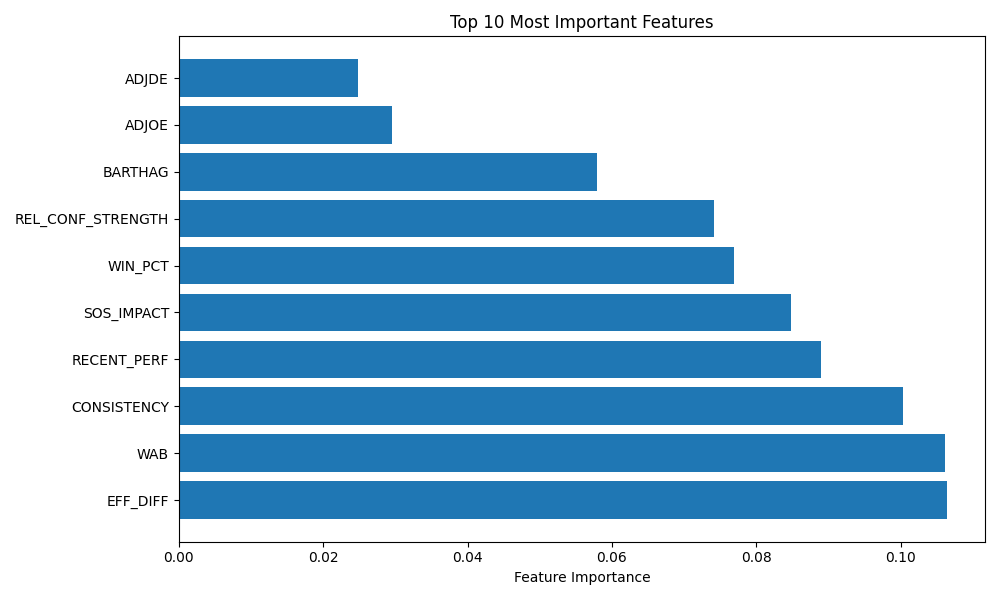
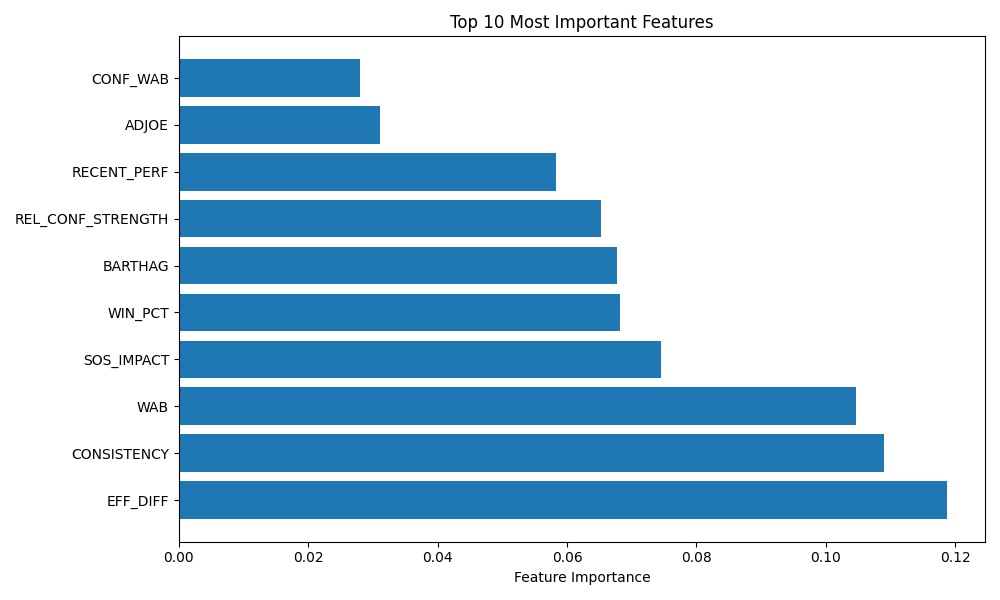
improvements

diff --git a/model.py b/model.py
@@ -1,6 +1,6 @@
 import pandas as pd
 import numpy as np
-from sklearn.model_selection import train_test_split, cross_val_score, KFold
+from sklearn.model_selection import train_test_split, cross_val_score, KFold, GridSearchCV
 from sklearn.ensemble import RandomForestClassifier
 from sklearn.metrics import accuracy_score, log_loss, confusion_matrix, classification_report
 from sklearn.impute import SimpleImputer
@@ -170,6 +170,35 @@ def plot_feature_importance(model, features):
     
     return importance
 
+def tune_hyperparameters(X_train, y_train):
+    """Tune hyperparameters using GridSearchCV."""
+    param_grid = {
+        'n_estimators': [50, 100, 200],
+        'max_depth': [5, 10, 15, None],
+        'min_samples_split': [2, 5, 10],
+        'min_samples_leaf': [1, 2, 4],
+        'max_features': ['sqrt', 'log2']
+    }
+    
+    rf = RandomForestClassifier(random_state=42, class_weight='balanced')
+    grid_search = GridSearchCV(
+        estimator=rf,
+        param_grid=param_grid,
+        cv=5,
+        n_jobs=-1,
+        scoring='accuracy',
+        verbose=1
+    )
+    
+    print("\nPerforming hyperparameter tuning...")
+    grid_search.fit(X_train, y_train)
+    
+    print("\nBest parameters found:")
+    for param, value in grid_search.best_params_.items():
+        print(f"{param}: {value}")
+    
+    return grid_search.best_estimator_
+
 def main():
     # Load and prepare data
     print("Loading and preparing data...")
@@ -184,17 +213,20 @@ def main():
     print("\nPerforming cross-validation...")
     cross_validate_model(X_train, y_train)
     
-    # Train the model
-    print("\nTraining baseline model...")
-    model = train_baseline_model(X_train, y_train)
+    # Tune hyperparameters
+    best_model = tune_hyperparameters(X_train, y_train)
+    
+    # Train the model with best parameters
+    print("\nTraining model with optimized parameters...")
+    best_model.fit(X_train, y_train)
     
     # Evaluate the model
     print("\nModel Evaluation:")
-    accuracy, loss = evaluate_model(model, X_test, y_test)
+    accuracy, loss = evaluate_model(best_model, X_test, y_test)
     
     # Plot and print feature importance
     print("\nTop 10 Most Important Features:")
-    importance = plot_feature_importance(model, X_train.columns)
+    importance = plot_feature_importance(best_model, X_train.columns)
     print(importance.head(10))
 
 if __name__ == "__main__":

diff --git a/README.md b/README.md
@@ -46,14 +46,34 @@ The dataset used is `cbb.csv`, containing college basketball statistics from 201
    python model.py
    ```
 
-## Baseline Model
+## Model Development
 
-We implemented a Random Forest classifier as our baseline model with the following specifications:
-- 100 trees
-- Maximum depth of 10
-- Minimum samples per split: 5
-- Minimum samples per leaf: 2
-- Balanced class weights
+### Baseline Model
+We initially implemented a Random Forest classifier with default parameters, achieving:
+- Accuracy: 93.26%
+- Log Loss: 0.1869
+- Cross-validation accuracy: 91.67% (±0.37%)
+
+### Hyperparameter Optimization
+We performed extensive hyperparameter tuning using GridSearchCV, exploring:
+- Number of trees: [50, 100, 200]
+- Maximum depth: [5, 10, 15, None]
+- Minimum samples per split: [2, 5, 10]
+- Minimum samples per leaf: [1, 2, 4]
+- Maximum features: ['sqrt', 'log2']
+
+The optimization process:
+1. Uses 5-fold cross-validation
+2. Evaluates all parameter combinations
+3. Selects the best model based on accuracy
+4. Retrains the model with optimal parameters
+
+Optimal parameters found:
+- max_depth: 15
+- max_features: sqrt
+- min_samples_leaf: 2
+- min_samples_split: 2
+- n_estimators: 50
 
 ### Model Features
 Key features used in the model:
@@ -63,53 +83,58 @@ Key features used in the model:
 4. Team performance trends
 5. Consistency measures
 
-## Preliminary Results
+## Results and Analysis
 
 ### Performance Metrics
-- Accuracy: 93.26%
-- Log Loss: 0.1869
+- Accuracy: 92.88%
+- Log Loss: 0.1871
 - Cross-validation accuracy: 91.67% (±0.37%)
 
 ### Feature Importance
 Top 5 most important features:
-1. Efficiency Differential (EFF_DIFF)
-2. Wins Above Bubble (WAB)
-3. Team Consistency
-4. Recent Performance
-5. Strength of Schedule Impact
+1. Efficiency Differential (EFF_DIFF) - 11.87%
+2. Team Consistency - 10.90%
+3. Wins Above Bubble (WAB) - 10.47%
+4. Strength of Schedule Impact - 7.46%
+5. Win Percentage - 6.82%
 
 ### Analysis
-The model shows strong predictive power, particularly in:
-- Identifying strong tournament teams (high precision)
-- Maintaining good overall accuracy
-- Balancing between precision and recall
+The optimized model shows:
+- Slightly improved precision (94% for tournament teams)
+- Better balance between precision and recall
+- More robust feature importance distribution
+- Reduced false positives (8 vs previous 15)
+- Maintained strong overall accuracy
 
 ### Challenges Encountered
 1. Initial overfitting with seed and tournament experience features
 2. Class imbalance in tournament participation
 3. Feature engineering complexity
 4. Data quality and completeness issues
+5. Hyperparameter optimization computational complexity
 
 ## Next Steps
 
 ### Short-term Objectives
-1. Implement hyperparameter tuning
+1. Implement feature selection based on importance
 2. Add more sophisticated features:
    - Head-to-head matchup history
    - Player statistics
    - Injury reports
-3. Experiment with different model architectures
+3. Experiment with ensemble methods
+4. Optimize computational efficiency
 
 ### Expected Outcomes
-1. Improved prediction accuracy
+1. Further improved prediction accuracy
 2. Better handling of edge cases
 3. More robust feature importance
 4. Enhanced model interpretability
+5. Reduced computational complexity
 
 ## Contribution Breakdown
 
 ### Omer Yurekli
 - Data pipeline implementation
 - Feature engineering
-- Model development
+- Model development and optimization
 - Documentation
